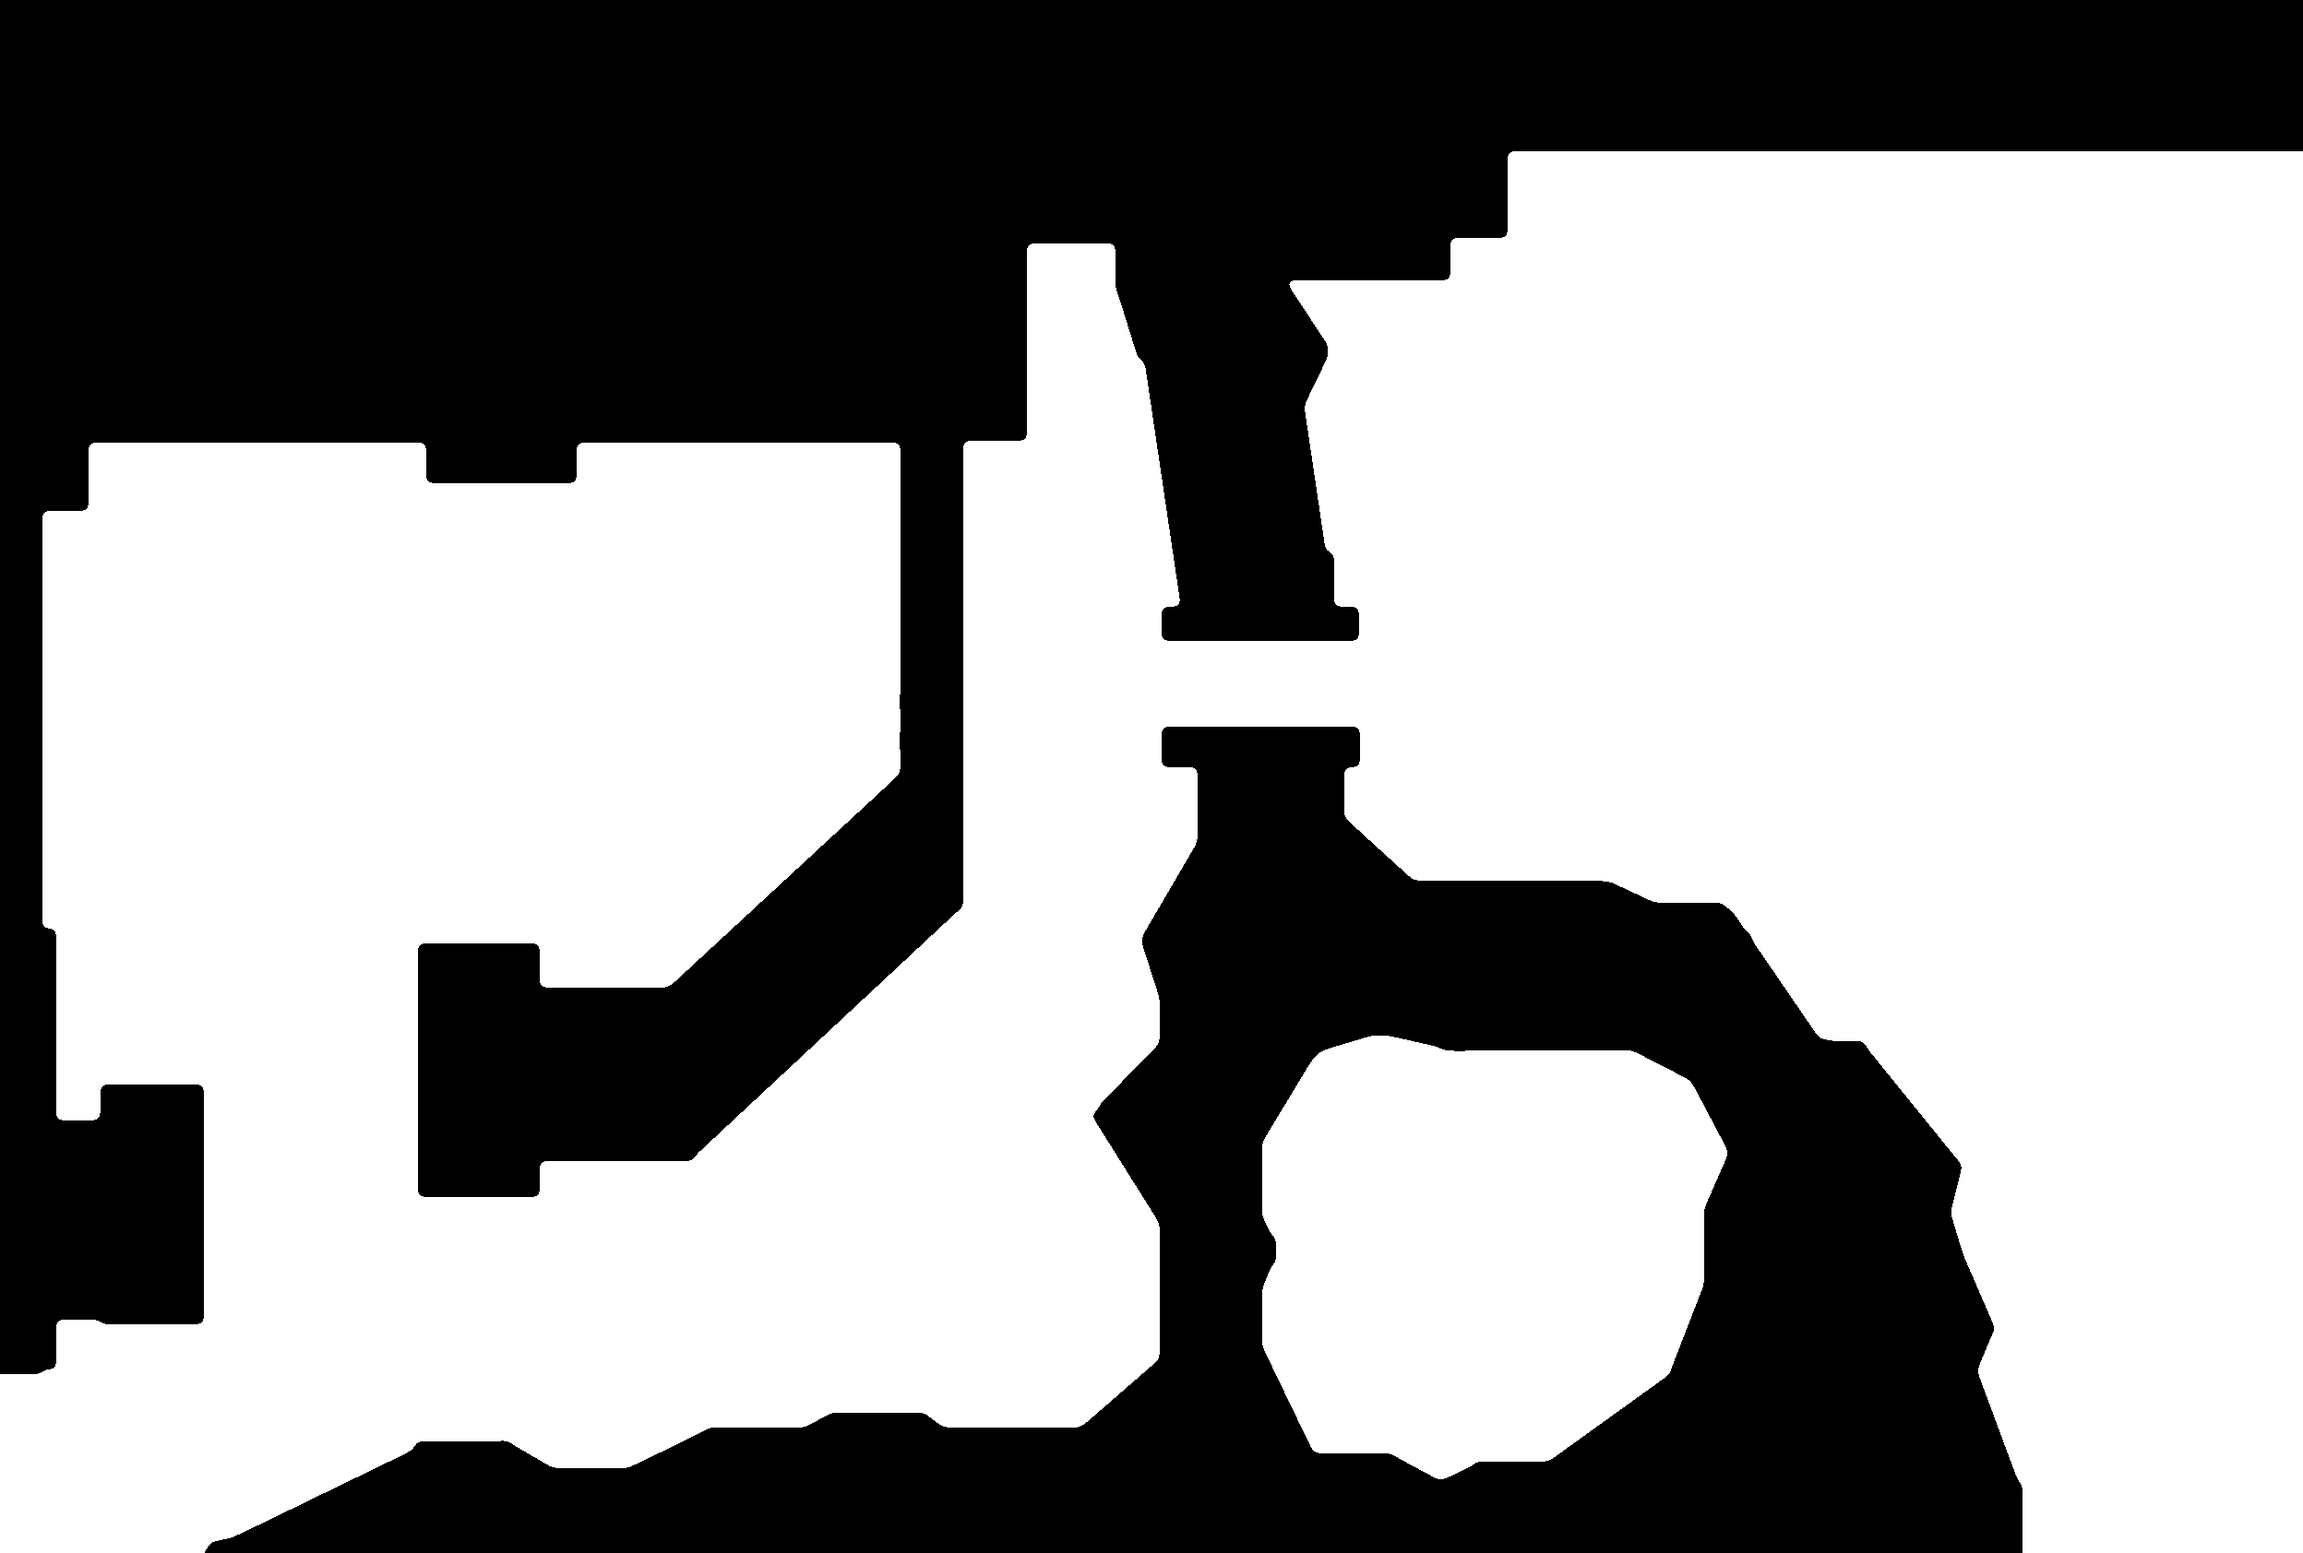
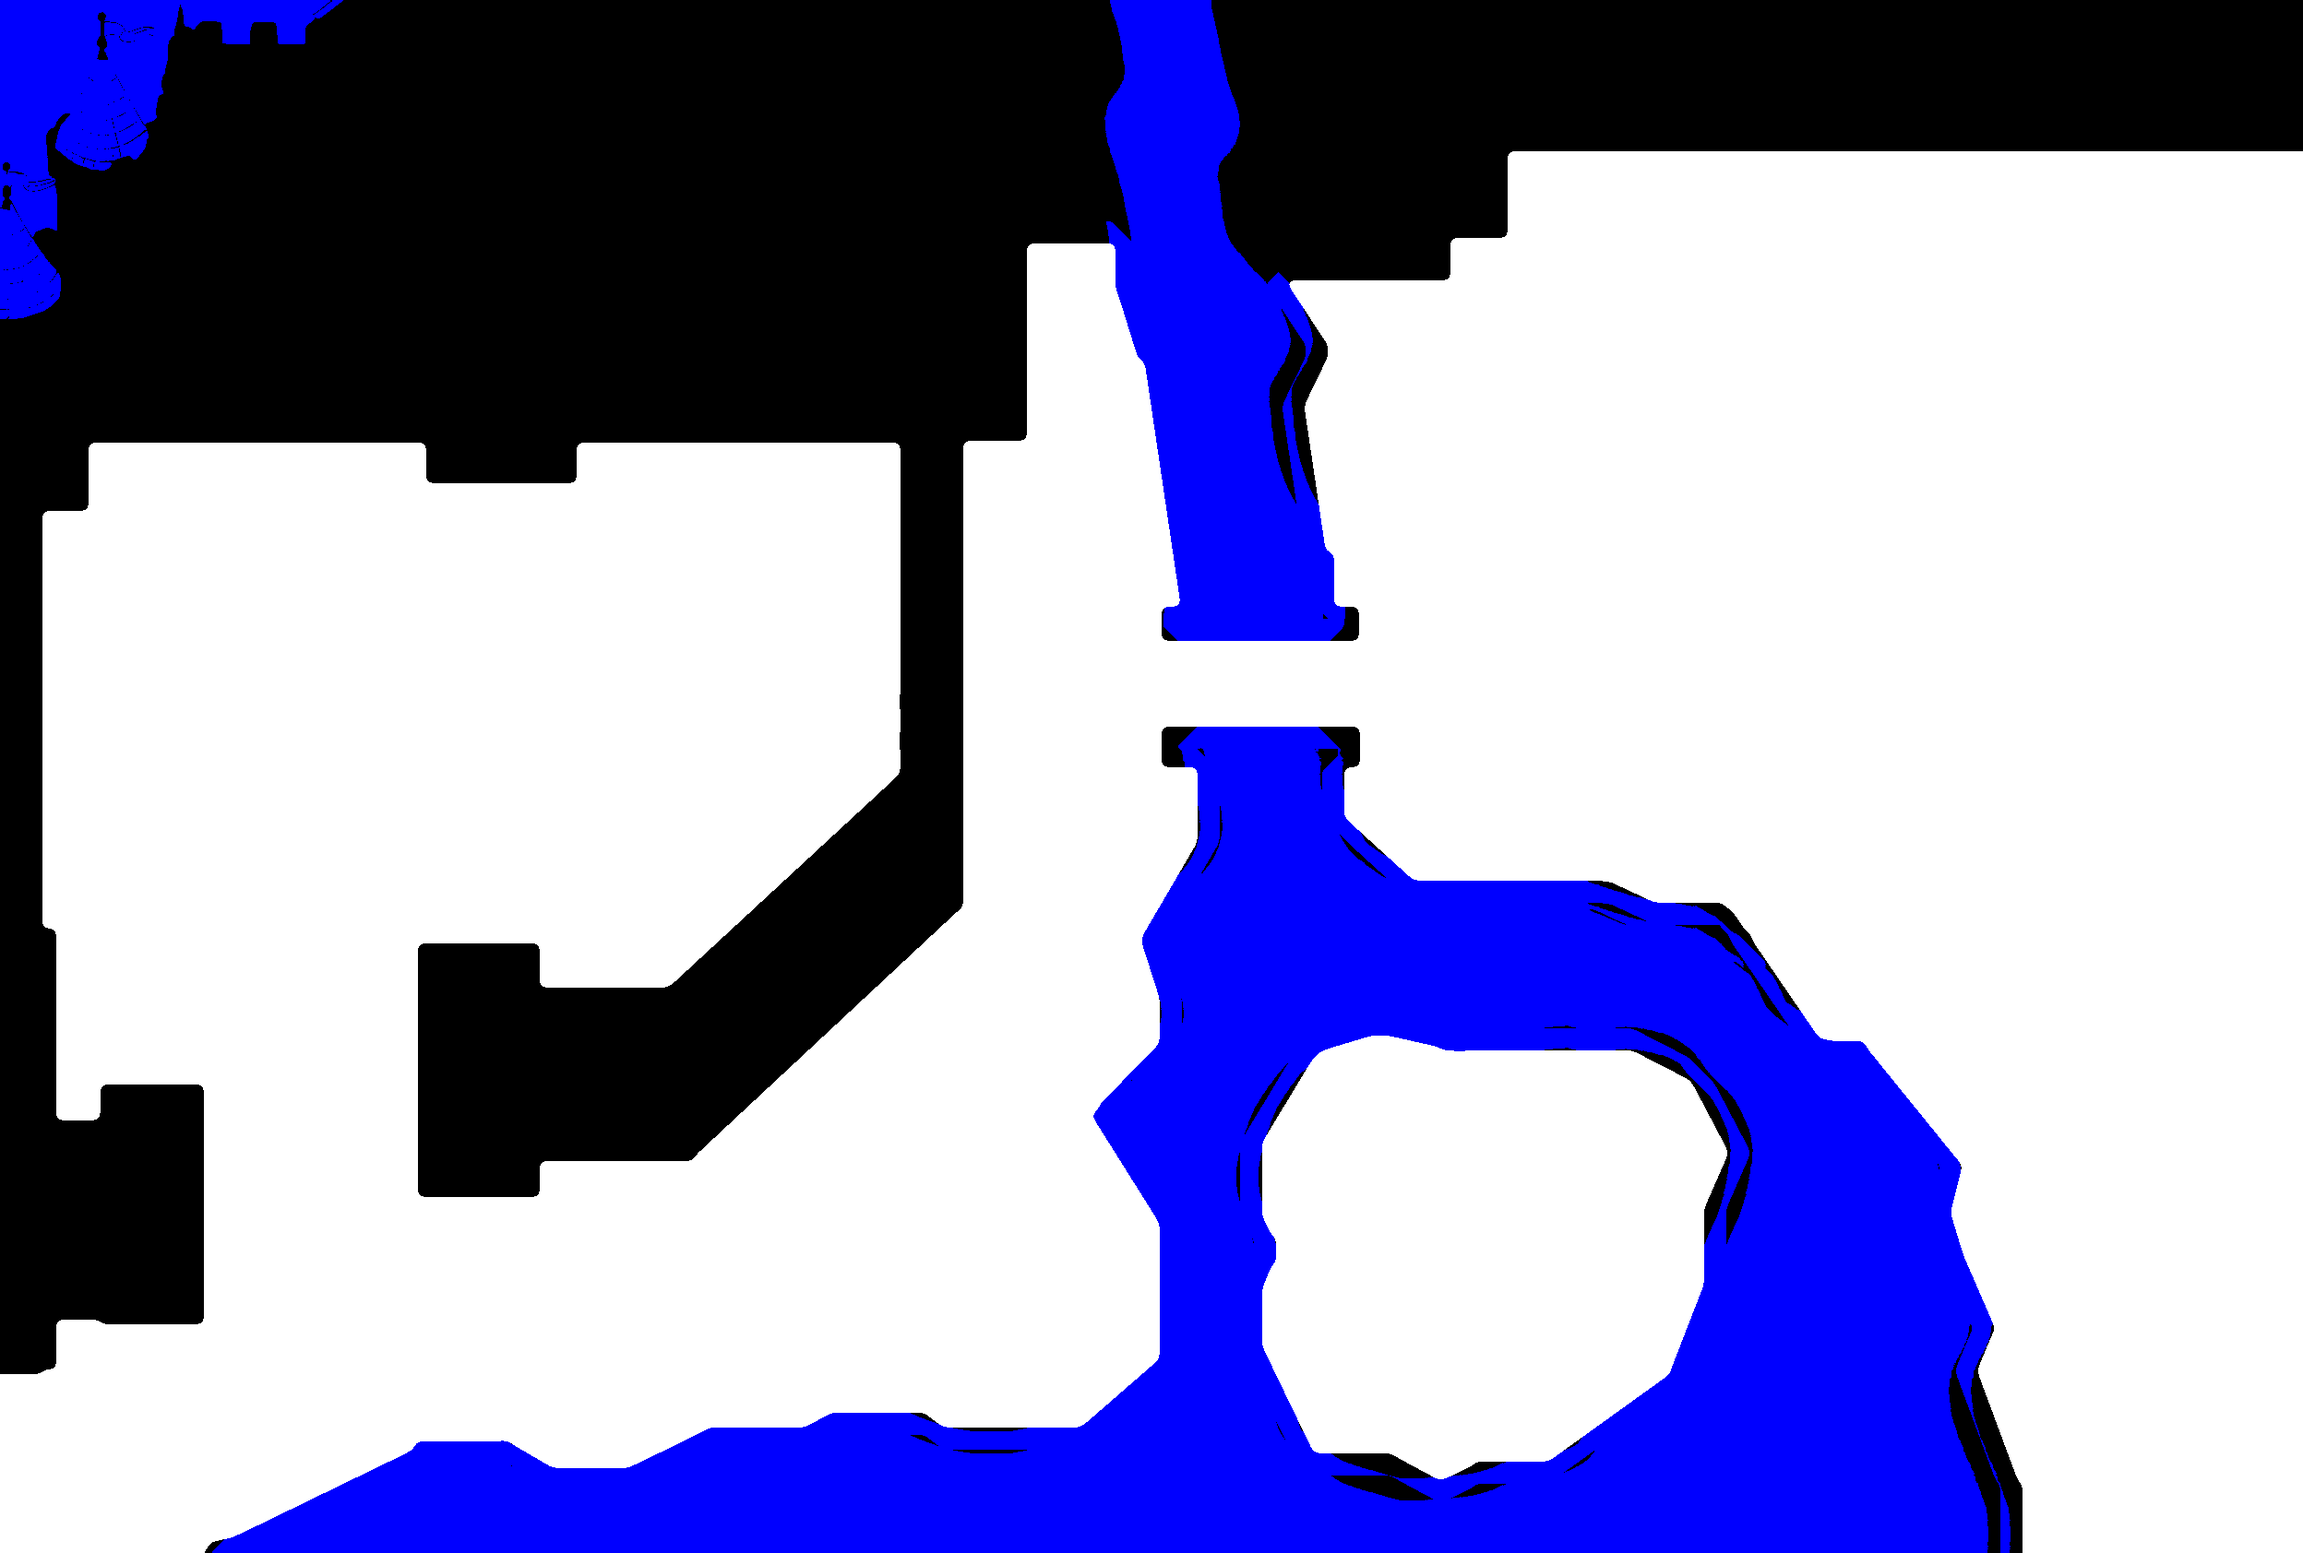
feat: Liberado o rio para locomoção.

Changed region(s): [[0.0938, 0.4632, 0.875, 1.0], [0.4688, 0.0, 0.5938, 0.4323], [0.0, 0.0, 0.1562, 0.2162]]

diff --git a/src/utils/MapCollider.js b/src/utils/MapCollider.js
@@ -38,10 +38,29 @@ export default class MapCollider {
         // Calcula o índice no array de bytes (pixel = y * largura + x) * 4 canais
         const index = (py * this.halfWidth + px) * 4;
         const r = this.pixelData[index];
+        const b = this.pixelData[index + 2];
 
-        // Se o canal vermelho for > 128 tratamos como branco/livre.
-        // Isso dá segurança caso a borda da imagem tenha algum "anti-aliasing" cinza.
-        return r > 128;
+        // Branco (vermelho > 128) é chão; azul é água, e dá para andar nos dois.
+        // O limiar (em vez de "é preto?") perdoa o anti-aliasing do desenho.
+        return r > 128 || b > 128;
+    }
+
+    /**
+     * O ponto é água? Espelha `CollisionMask.isWater` do servidor.
+     *
+     * Água é o azul da máscara: navegável como o chão, só que mais lenta
+     * (`WATER_SPEED_FACTOR`). Quem pinta é `scripts/paint-water.mjs`, no
+     * servidor; aqui só se lê o pixel.
+     */
+    isWater(x, y) {
+        let px = Math.floor(x);
+        const py = Math.floor(y);
+
+        if (px < 0 || py < 0 || px >= this.width || py >= this.height) return false;
+        if (px >= this.halfWidth) px = this.width - 1 - px;
+
+        const index = (py * this.halfWidth + px) * 4;
+        return this.pixelData[index] <= 128 && this.pixelData[index + 2] > 128;
     }
 
     /**

diff --git a/src/scenes/Arena.js b/src/scenes/Arena.js
@@ -785,7 +785,7 @@ export class Arena extends Phaser.Scene {
             // vira divergência e a reconciliação puxa o boneco para trás.
             const atacando = localState.attacking || this.localAttackPending;
             const carregando = this.localCharging || localState.charging;
-            const fator = movementFactor(atacando, carregando);
+            const fator = movementFactor(atacando, carregando, this.naAgua(localState));
             const { dx, dy } = this.inputs.getMovementVector();
             const speed = RANKS[RANK_ORDER[localState.rank]].speed * fator;
             this.predX += dx * speed * dt;
@@ -894,6 +894,19 @@ export class Arena extends Phaser.Scene {
             this.predX = corrigidoX;
             this.predY = corrigidoY;
         }
+    }
+
+    /**
+     * O jogador local está com o corpo na água?
+     *
+     * Uma consulta de pixel no centro da elipse — o mesmo ponto que o servidor
+     * usa em `World.inWater`. Sem estado guardado: sair da água devolve a
+     * velocidade no quadro seguinte, e o fator nunca se acumula.
+     */
+    naAgua(localState) {
+        if (!this.mapCollider) return false;
+        const forma = this.formaLocal(localState);
+        return this.mapCollider.isWater(this.predX, this.predY + forma.offsetY);
     }
 
     /**

diff --git a/src/constants/Hierarchy.js b/src/constants/Hierarchy.js
@@ -28,10 +28,21 @@ export const CHARGE_MOVE_FACTOR = 0.45;
  * Calcular isso solto em cada lugar faria previsão, simulação e modo offline
  * divergirem.
  */
-export function movementFactor(attacking, charging) {
-    if (attacking) return ATTACK_MOVE_FACTOR;
-    if (charging) return CHARGE_MOVE_FACTOR;
-    return 1;
+/**
+ * Fração da velocidade dentro da água (espelha `WATER_SPEED_FACTOR` do
+ * servidor). A água é navegável por todo mundo; só custa 20% de velocidade.
+ */
+export const WATER_SPEED_FACTOR = 0.8;
+
+export function movementFactor(attacking, charging, inWater = false) {
+    let fator = 1;
+    if (attacking) fator = ATTACK_MOVE_FACTOR;
+    else if (charging) fator = CHARGE_MOVE_FACTOR;
+
+    // Terreno multiplica o estado de combate. Como o fator é recalculado a
+    // partir da `rank.speed` a cada quadro, entrar e sair da água não acumula
+    // nada — fora da água a conta simplesmente não tem o 0,8.
+    return inWater ? fator * WATER_SPEED_FACTOR : fator;
 }
 
 /**

diff --git a/src/entities/PlayerBase.js b/src/entities/PlayerBase.js
@@ -470,6 +470,20 @@ export default class PlayerBase extends Phaser.Physics.Arcade.Sprite {
     }
 
     /**
+     * O personagem está com o corpo na água?
+     *
+     * Espelha `World.inWater` do servidor: uma consulta no centro da elipse,
+     * sem estado guardado — a cada quadro se olha onde ele está.
+     */
+    isInWater() {
+        const mapCollider = this.scene.mapCollider;
+        if (!mapCollider) return false;
+
+        const centro = this.getEllipseCenter();
+        return mapCollider.isWater(centro.x, centro.y);
+    }
+
+    /**
      * Cura contínua dentro do castelo do PRÓPRIO time — espelha o
      * `World.healInBase` do servidor.
      *

diff --git a/src/entities/AIPlayer.js b/src/entities/AIPlayer.js
@@ -178,7 +178,7 @@ export default class AIPlayer extends PlayerBase {
         // Durante o golpe, reduzida: antes o bot mantinha a velocidade do
         // quadro anterior e deslizava solto pelos 200 ms do windup.
         const speed = this._currentRank.speed *
-            movementFactor(this._isAttacking, this._isCharging);
+            movementFactor(this._isAttacking, this._isCharging, this.isInWater());
           
         const vx = Math.cos(moveAngle) * speed;
         const vy = Math.sin(moveAngle) * speed;

diff --git a/src/entities/HumanPlayer.js b/src/entities/HumanPlayer.js
@@ -109,7 +109,7 @@ export default class HumanPlayer extends PlayerBase {
             this.setVelocity(dash.vx, dash.vy);
         } else {
             const speed = this._currentRank.speed *
-                movementFactor(this._isAttacking, this._isCharging);
+                movementFactor(this._isAttacking, this._isCharging, this.isInWater());
 
             this.setVelocity(dx * speed, dy * speed);
 

diff --git a/CLAUDE.md b/CLAUDE.md
@@ -97,6 +97,13 @@ qualquer outra.
 As células usam os raios da **rainha** (a maior peça): rota aprovada ali serve
 para qualquer rank.
 
+**A água é rota, não barreira.** As células de água entram no grid como
+qualquer outra, com custo `1 / WATER_SPEED_FACTOR` (1,25) por passo — que é
+exatamente o tempo a mais que se leva ali. Assim o A* prefere ponte e terra
+quando elas não são um desvio grande, e manda o bot nadar quando nadar é
+mesmo mais rápido. Medido: com o rio atravessável, os bots passam ~24% do
+tempo na água em vez de fila na ponte.
+
 **O A* quase nunca roda.** A ordem em `World.navigateAngle` é do mais barato ao
 mais caro:
 
@@ -116,8 +123,18 @@ recálculo liberado na hora. É isso que tira o bot da margem e o manda à ponte
 Só limpar a rota não resolve **quina**: o A* devolve praticamente o mesmo
 caminho e ele reencalha no mesmo canto. Por isso a travada também liga o
 contorno (`BOT_UNSTICK_MS`, 500 ms), em que o bot ignora o waypoint e anda numa
-tangente de ~70° (`BOT_UNSTICK_ANGLE`) — e **alterna o lado** a cada travada, em
-vez de insistir no mesmo. É movimento normal, sem teleporte.
+direção de fuga. É movimento normal, sem teleporte.
+
+Essa direção **é escolhida olhando o mapa**, não às cegas: `World.escapeAngle`
+testa desvios crescentes (`BOT_UNSTICK_ANGLES`, 70° → 110° → 150°) para os dois
+lados, começando pelo lado que ainda não foi tentado, e fica com o primeiro que
+tem `BOT_UNSTICK_PROBE` (64 px) livres — medido com a MESMA linha de visão da
+navegação e com o corpo do próprio bot, então um vão onde ele não cabe é
+recusado. Antes era sempre a mesma tangente de 70°, que num canto fechado é
+parede também: ele empacava de novo na janela seguinte. Medido em 120 s com 10
+bots: travadas caíram de 207 para 147, e a maior sequência de travadas
+consecutivas (o bot realmente preso) caiu de 4 para 2 — nenhuma sequência de 3
+ou mais.
 
 A rota sai **suavizada**: pontos que dá para pular em linha reta são
 descartados, senão o bot andaria em escadinha de 32 px trocando de direção o
@@ -203,11 +220,33 @@ As dimensões vivem em [Scenario.js](src/constants/Scenario.js) (cliente) e em
 segunda cópia de `WORLD_WIDTH` e a `Arena` importava justamente a que já não
 existia mais — os clamps viravam `NaN`.
 
-**A máscara é a mesma imagem nos dois lados.** Livre = canal vermelho > 128 (o
-limiar perdoa o anti-aliasing da borda). **Nove pontos por teste** — centro,
-quatro pontas e quatro diagonais da elipse, a 70% dos raios. As diagonais não
-são luxo: com só as pontas, uma quina entra pelo vão entre elas e o ombro do
-corpo termina dentro da pedra.
+**A máscara é a mesma imagem nos dois lados**, e ela tem **três classes de
+terreno**, pela cor do pixel:
+
+| Cor | Terreno | Regra |
+| --- | --- | --- |
+| branco (r > 128) | chão | velocidade cheia |
+| azul (b > 128) | água | caminhável, `WATER_SPEED_FACTOR` (0,8) |
+| preto | parede | não se anda |
+
+O limiar (em vez de "é preto?") perdoa o anti-aliasing da borda. **Nove pontos
+por teste** — centro, quatro pontas e quatro diagonais da elipse, a 70% dos
+raios. As diagonais não são luxo: com só as pontas, uma quina entra pelo vão
+entre elas e o ombro do corpo termina dentro da pedra.
+
+**A água é pintada por script**, não à mão: `npm run paint:water` (no servidor)
+cruza a ARTE (`arena.png`, onde rio e mar são azulados e o terreno é
+amarronzado) com o que a máscara já marcava como bloqueado. Só os
+**componentes conexos grandes** viram água — telhado azul de torre tem poucos
+milhares de pixels e fica de fora. Depois disso, todo pixel bloqueado que está
+a menos de 24 px **tanto da água quanto do chão** vira água também: é a faixa
+rasa da beira, que a máscara antiga marcava como parede. Sem ela a água era
+navegável mas cercada por uma mureta invisível, e ninguém conseguia entrar no
+rio. Muralha de verdade não é tocada, porque o teste exige estar perto dos dois
+lados ao mesmo tempo.
+
+O resultado é revisável no editor de imagem e vai versionado; rodar de novo
+numa máscara já pintada dá o mesmo resultado.
 
 | Onde | O quê |
 | --- | --- |
@@ -369,6 +408,19 @@ Contra um alvo só, a invulnerabilidade de 500 ms (`HIT_INVULN_MS`) limita os
 dois, e o leve rende mais dano por segundo. O carregado paga por: alcance
 dobrado (pega quem está fugindo), empurrão que cria espaço, e matar em dois
 golpes em vez de quatro.
+
+**Água deixa lento.** Dentro do rio ou do mar todo personagem anda a
+`WATER_SPEED_FACTOR` (0,8) — jogador, bot, qualquer peça, sem exceção. O fator
+entra no mesmo `movementFactor(attacking, charging, inWater)` que já era a
+fonte única da velocidade, então ele MULTIPLICA o estado de combate (atacar
+nadando é 0,6 × 0,8) e não existe em lugar nenhum um `speed *= 0.8` solto. Como
+a velocidade é recalculada a partir da `rank.speed` a cada passo, sair da água
+devolve os 100% sozinho e o freio nunca acumula.
+
+Quem responde "está na água?" é a máscara, no centro da elipse — uma consulta
+de bit por personagem por tick, sem zona, sem gatilho e sem estado guardado. No
+online a resposta é do servidor (`World.inWater`); o cliente faz a mesma
+consulta só para a previsão local não divergir.
 
 **Carregar deixa lento.** Enquanto a carga está em curso o personagem anda a
 `CHARGE_MOVE_FACTOR` (0,45) da velocidade — mais devagar que durante o próprio
